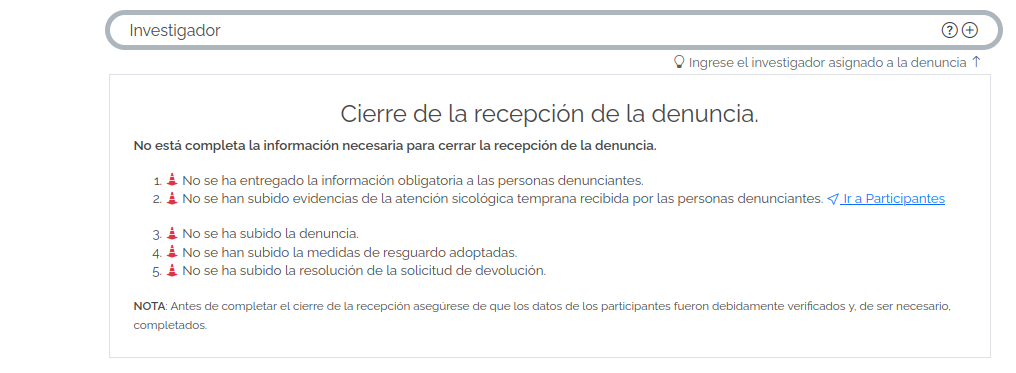
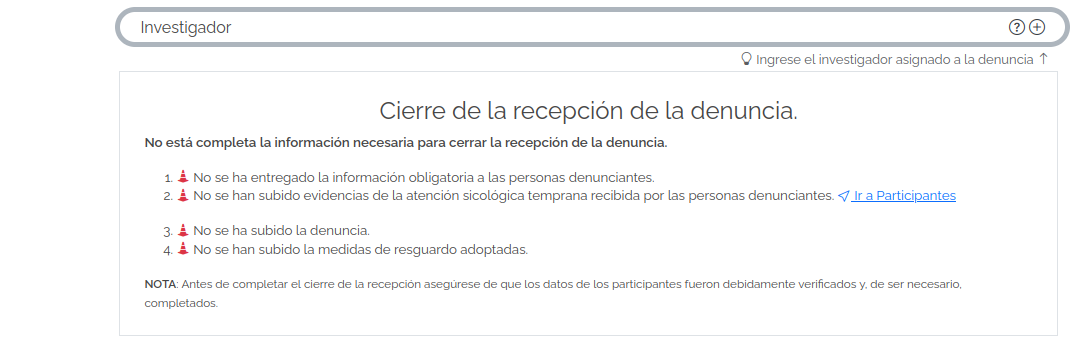
ñlkjñlkjÑ

diff --git a/app/controllers/concerns/karin.rb b/app/controllers/concerns/karin.rb
@@ -27,7 +27,7 @@ module Karin
       'get_crr_rcpcn?', 'fl_atncn_sclgc_tmprn?', 'fl_dnnc?', 'fl_acta?', 'fl_rprsntcn?', 'fl_ntfccn?', 'fl_crtfcd?',
       'fl_mdds_rsgrd?', 'fls_rcpcn?', 'inf_cierre?', 'fechas_crr_rcpcn?',
       'fl_antcdnts_objcn?', 'fl_rslcn_objcn?', 'fl_evlcn?', 'fl_crrgd?', 'fl_infrm?', 'fls_invstgcn?',
-      'dnnc_evld?', 'dclrcns_ok?', 'chck_dvlcn?', 'fl_prnncmnt?'
+      'dnnc_evld?', 'dclrcns_ok?', 'chck_dvlcn?', 'fl_prnncmnt?', 'fl_rslcn_dvlcn?'
     ]
     mthds.each do |mthd|
       @objt[mthd] = objt.send(mthd)
@@ -276,8 +276,8 @@ module Karin
         'rslcn_dvlcn'       => dnnc.solicitud_denuncia,
         'antcdnts_objcn'    => (dnnc.investigadores? ? dnnc.krn_inv_denuncias.first.objetado : false),
         'rslcn_objcn'       => dnnc.fl?('antcdnts_objcn'),
-        'dnnc_evlcn'        => (dnnc.evlcn_incmplt or dnnc.evlcn_incnsstnt),
-        'dnnc_corrgd'       => ((dnnc.evlcn_incmplt or dnnc.evlcn_incnsstnt) and (not dnnc.evlcn_ok)),
+        'dnnc_evlcn'        => dnnc.evlcn_incnsstnt,
+        'dnnc_corrgd'       => (dnnc.evlcn_incnsstnt and (not dnnc.evlcn_ok)),
         'infrm_invstgcn'    => ((dnnc.fechas_crr_rcpcn? or dnnc.on_dt?) and dnnc.chck_dvlcn?),
         'prnncmnt_dt'       => dnnc.fecha_prnncmnt?,
         'dnnc_mdds_sncns'   => (dnnc.fecha_env_infrm? or dnnc.plz_prnncmnt_vncd?)

diff --git a/app/models/concerns/dnnc_proc.rb b/app/models/concerns/dnnc_proc.rb
@@ -108,7 +108,7 @@ module DnncProc
  	end
 
  	def fl_evlcn?
- 		(self.evlcn_incmplt or self.evlcn_incnsstnt) ? self.fl?('dnnc_evlcn') : true
+ 		self.evlcn_incnsstnt ? self.fl?('dnnc_evlcn') : true
  	end
 
  	def fl_crrgd?
@@ -140,7 +140,7 @@ module DnncProc
  	end
 
  	def dnnc_evld?
- 		((self.evlcn_incmplt or self.evlcn_incnsstnt) and self.fecha_hora_corregida?) or self.evlcn_ok?
+ 		(self.evlcn_incnsstnt and self.fecha_hora_corregida?) or self.evlcn_ok?
  	end
 
 	def dclrcns_ok?

diff --git a/app/controllers/karin/krn_denuncias_controller.rb b/app/controllers/karin/krn_denuncias_controller.rb
@@ -186,7 +186,6 @@ class Karin::KrnDenunciasController < ApplicationController
     @objeto.fecha_trmtcn = nil
     @objeto.fecha_hora_dt = nil
     @objeto.objcn_invstgdr = nil
-    @objeto.evlcn_incmplt = nil
     @objeto.evlcn_incnsstnt = nil
     @objeto.evlcn_ok = nil
     @objeto.fecha_hora_corregida = nil
